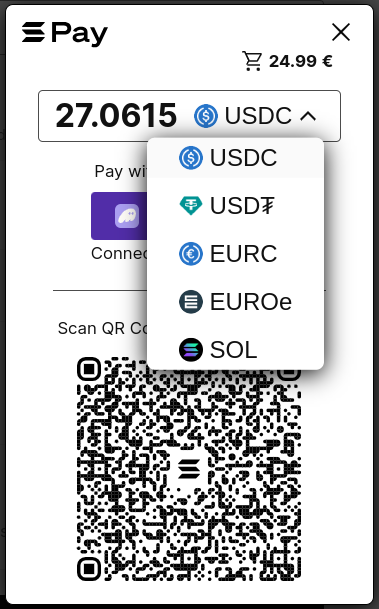
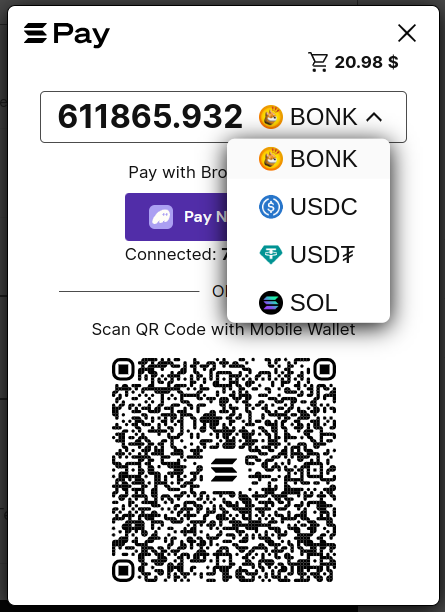
Update docs

diff --git a/README.md b/README.md
@@ -1,11 +1,11 @@
 # WC Solana Pay
 
-Solana Pay powered payment gateway for WordPress and WooCommerce.
+Solana Pay-powered payment gateway for WordPress and WooCommerce.
 
-<img src="/.wordpress.org/assets/screenshot-3.png" alt="WC Solana Pay demo screenshot" width="240">
+<img src=".wordpress.org/assets/screenshot-3.png" alt="WC Solana Pay demo screenshot" width="240">
 
 This is a decentralized, permissionless, and fast payment gateway powered by Solana blockchain.
-It supports payments in SOL, USDT, USDC, EURC and more via QR Code and through all major Solana wallets, including Phantom, Solflare and Backpack.
+It supports payments in BONK, SOL, USDT, USDC, EURC and more via QR Code and through all major Solana wallets, including Phantom, Solflare and Backpack.
 
 It is a quick and easy way to add crypto payments to your WooCommerce store and WordPress website. Give your customers a fast, seamless crypto checkout experience and increase your conversion rate.
 
@@ -26,9 +26,18 @@ Below are some of the major features of this plugin.
 - Solana Pay smart button integrated with the Checkout page for express checkout without redirect
 - Supports payments via QR Code scan and connection to browser wallets
 - Fast transactions handling and direct payments into the Solana wallet address that you configure
-- Supports payments in SOL, USDT, USDC, EURC and EUROe. More tokens can easily be added through configuration.
+- Supports payments in BONK, SOL, USDT, USDC, EURC and EUROe. More tokens can easily be added through configuration.
 - Compatible with Gutenberg Block and Classic themes
 - Customizable settings under WooCommerce Payment page
+
+## Supported Tokens for Payments
+
+- Bonk (BONK)
+- Solana (SOL)
+- Tether USD Stablecoin (USDT)
+- Circle USD Stablecoin (USDC)
+- Circle EURO Stablecoin (EURC)
+- EUROe Stablecoin (EUROe)
 
 ## How to build
 
